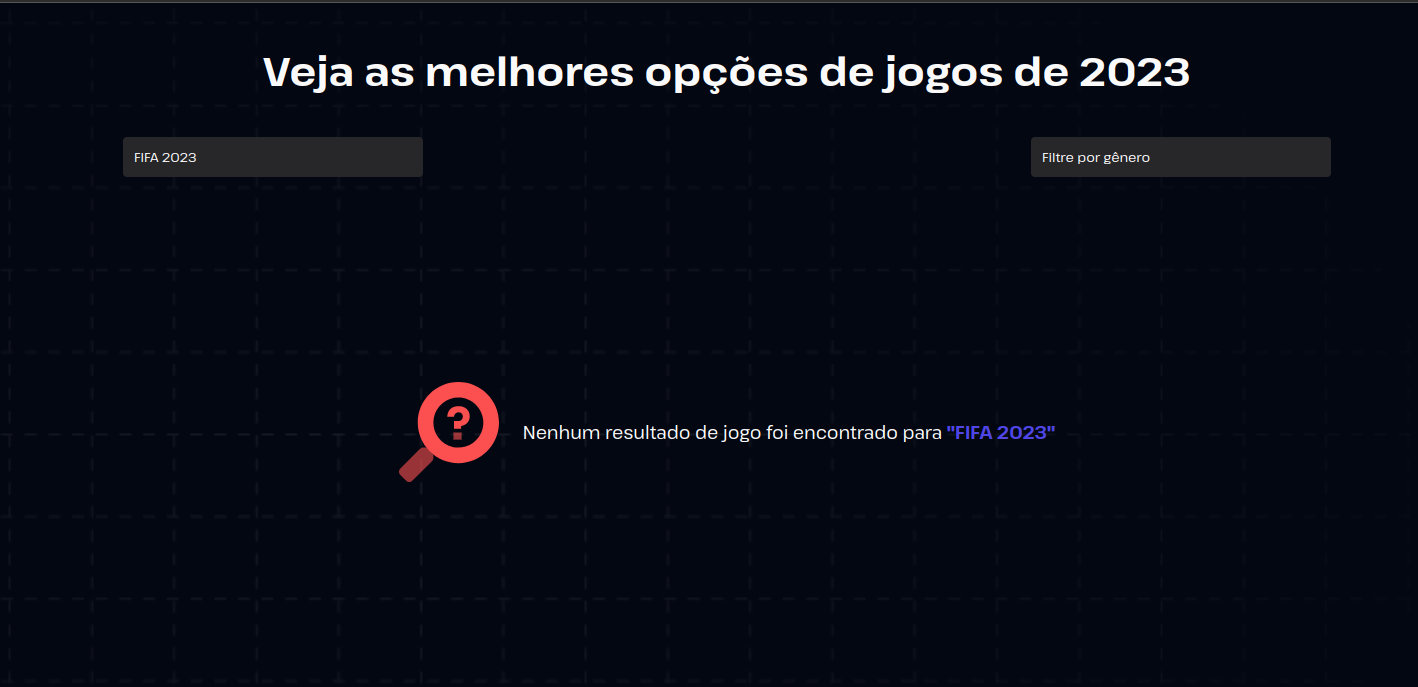
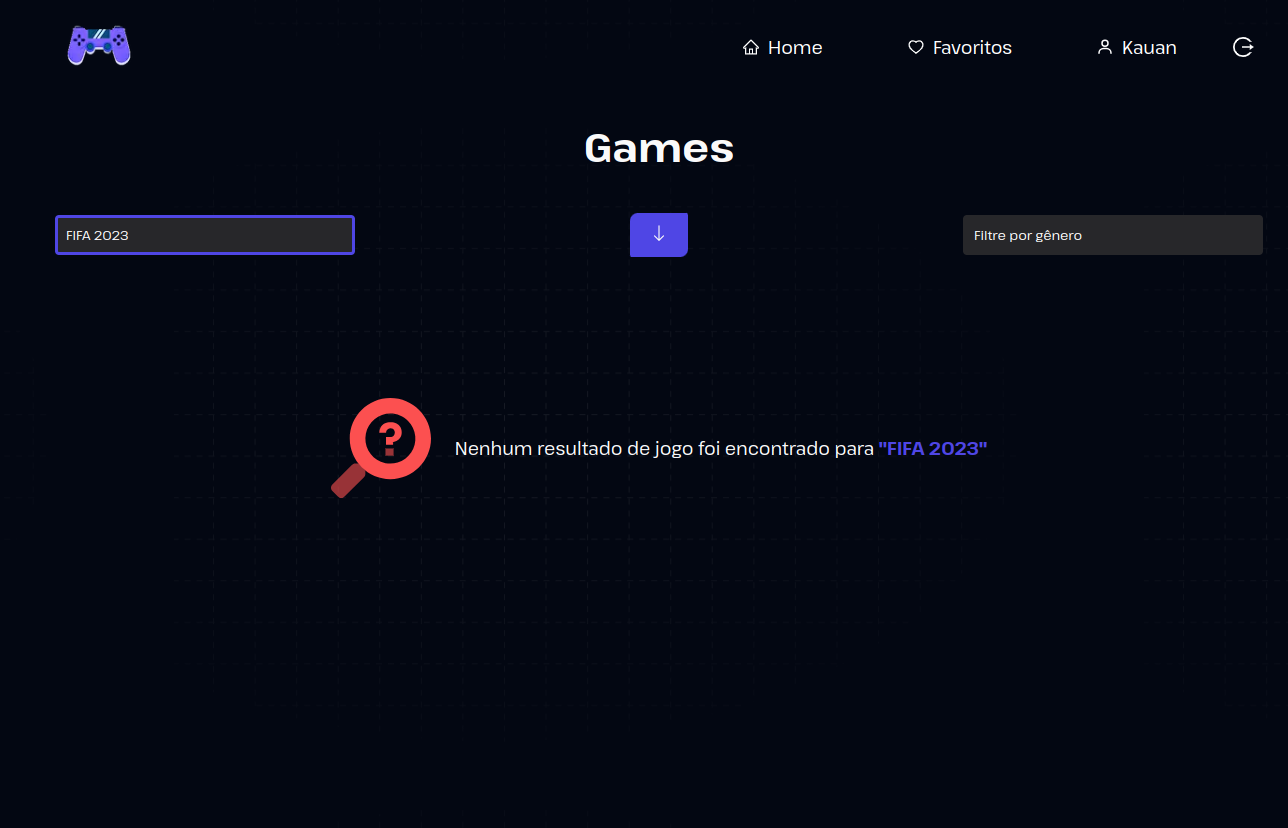
updated README.md

diff --git a/README.md b/README.md
@@ -10,27 +10,57 @@ Porém, essa API é estranha… não tem documentação, dá uns erros, ora resp
 
 Para acessar esse projeto em produção acesse:
 
-  📍 <a href="https://app-masters-test.vercel.app/" target="_blank" > Teste App Marters</a>
+📍 <a href="https://app-masters-test.vercel.app/" target="_blank" > Teste App Marters</a>
+
 # Layout
+
 ## 🗒 Lista de Games
+
 [<img src="./public/success.png"/>]()
+
+## Lista de Favoritos
+
+[<img src="./public/favorites.png"/>]()
+
+## Modal
+
+[<img src="./public/modal.png"/>]()
+
+## Auth Page
+
+[<img src="./public/auth.png"/>]()
+
 ## 🪹 Empty List
+
 [<img src="./public/empty.png"/>]()
 
+## 🪹 Empty Favorites
+
+[<img src="./public/emptyFavorites.png"/>]()
+
 ## 🔋 Loading
+
 [<img src="./public/loading.png"/>]()
 
+## 🚫 Dont Authenticated
+
+[<img src="./public/dontAuthenticated.png"/>]()
+
 ## ❌ Server Error
+
 [<img src="./public/serverError.png"/>]()
 
 ## ❌ Error
+
 [<img src="./public/error.png"/>]()
 
-## 🚫  Not Found 404
+## 🚫 Not Found 404
+
 [<img src="./public/404.png"/>]()
 
-
 ## Requisitos
+
+### - PRIMEIRA ETAPA
 
 - ✅ O projeto deve ser feito usando React ou Next.JS
 
@@ -56,6 +86,30 @@ Para acessar esse projeto em produção acesse:
 
 - ✅ Uma vez que tenha os dados em mãos, veja quais `genre` foram retornados e permita ao usuário selecionar um deles, e então filtre para exibir apenas jogos do gênero selecionado
 
+### - SEGUNDA ETAPA
+
+- ✅ Utilizar Firebase para realizar autenticação usando email/senha
+
+- ✅ Ter um 🩶 para o usuário favoritar o jogo diretamente na lista, ficando vermelho quando marcado
+- ✅ Salvar no firebase os jogos favoritos do usuário, no realtime ou firestore
+
+- ✅ Ter um botão “Favoritos” que apresenta apenas jogos favoritados, permitindo ainda buscar e filtrar estes jogos. Pode ser na própria lista já apresentada ou em uma separada se preferir.
+
+- ✅ Ao lado do coração, ter ★★★★ para o usuário avaliar o jogo, podendo marcar de uma em uma. Ou seja, ele pode escolher 1, 2, 3 ou as 4.
+
+- ✅ Ter uma forma de ordenar por avaliação, vendo os melhores (ou piores) primeiro, clicando novamente para inverter a ordem.
+
+- ✅ Ao carregar a interface, deixar o ❤ vermelho para os itens favoritos e as ⭐ amarelas nos itens avaliados
+- ✅ Ao acessar sem estar autenticado, os ícones 🩶 e ★ deverão estar visíveis, mas ao clicar irá solicitar a autenticação
+
+- ✅ 👉 Ao obter os jogos da API e os dados do firebase, apresentar. Manter o loading para os jogos. Não precisa de loading enquanto espera o firebase, até porque o firebase devolverá os dados mais rapidamente e pode ser complicado “esperar o firebase” se estiver “escutando o firebase”.
+
+- ✅ A autenticação deve acontecer na rota `/auth/` do frontend, usando o provedor “E-mail/senha” do firebase, onde o usuário poderá criar uma conta ou acessar a conta já existente (se mantendo apenas nesta rota)
+
+- ✅ Escolher um item para aplicar uma animação com CSS, pode ser ao favoritar, ou avaliar, ou quando os itens surgirem
+
+- ✅ Publicar seu projeto online para testarmos (na mesma url de antes)
+
 ## Tecnologias utilizadas
 
 - Nextjs
@@ -64,6 +118,10 @@ Para acessar esse projeto em produção acesse:
 - Javascript
 - Styled-Components
 - React Query
+- React Hook Form
+- Yup
+- Firebase
+- Nookies
 - Axios
 - Axios Mock Adapter
 
@@ -72,6 +130,32 @@ Para acessar esse projeto em produção acesse:
 Para rodar esse projeto, você vai precisar adicionar as seguintes variáveis de ambiente no seu .env.local
 
 `DEV_EMAIL=<email>`
+
+---
+
+
+`API_KEY=`
+
+`AUTH_DOMAIN`
+
+`PROJECT_ID`
+
+`STORAGE_BUCKET`
+
+`MESSAGING_SENDER_ID`
+
+`APP_ID`
+
+Acesse <a href="https://firebase.google.com/?hl=pt" target="_blank">Firebase</a> e crie a sua aplicação utilizando a forma de autenticação Email/Senha depois adicione o Firebase store no projeto juntamente com o storage.
+
+Criando a aplicação eles vão te devolver suas credenciais como o exemplo abaixo:
+[<img src="./public/firebaseConfig.png"/>]()
+
+
+E você armazena elas no .env.local.
+
+Depois so startar o projeto.
+
 
 ## Rodando Localmente
 
